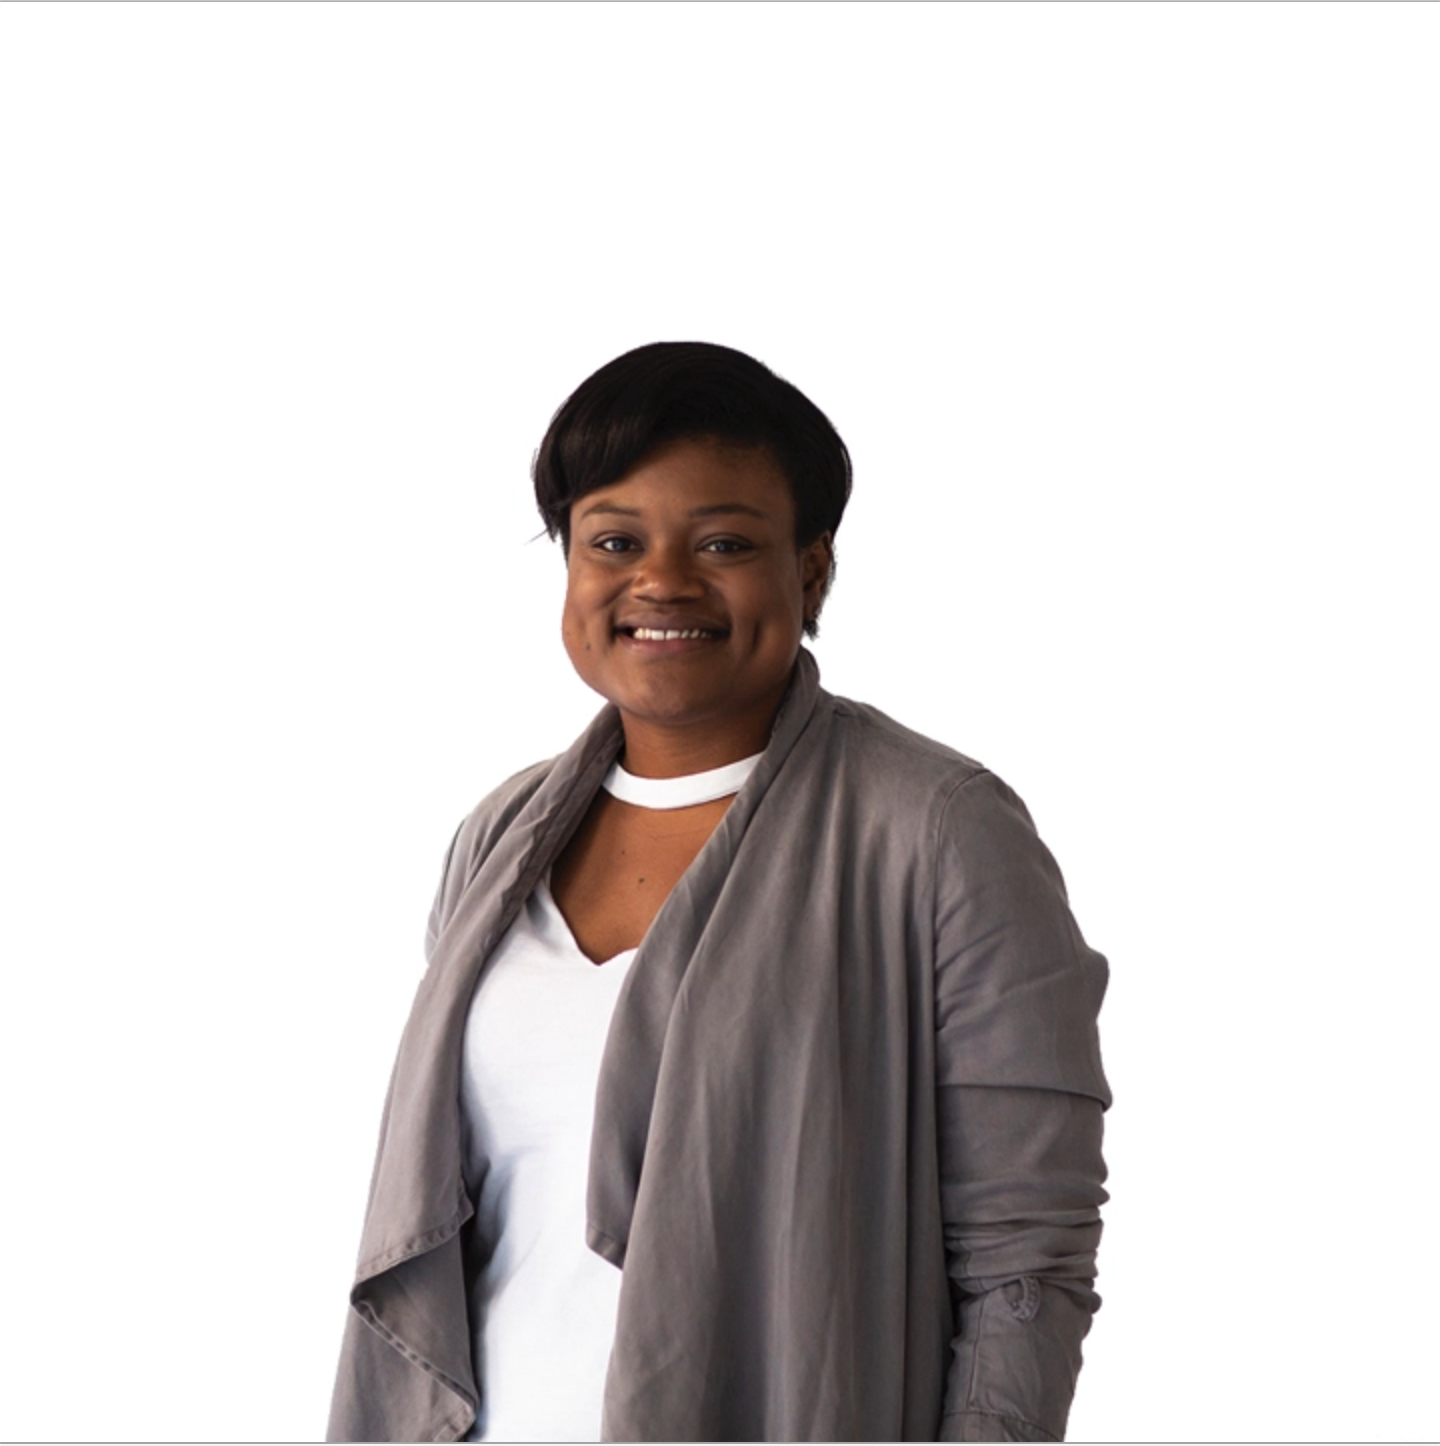
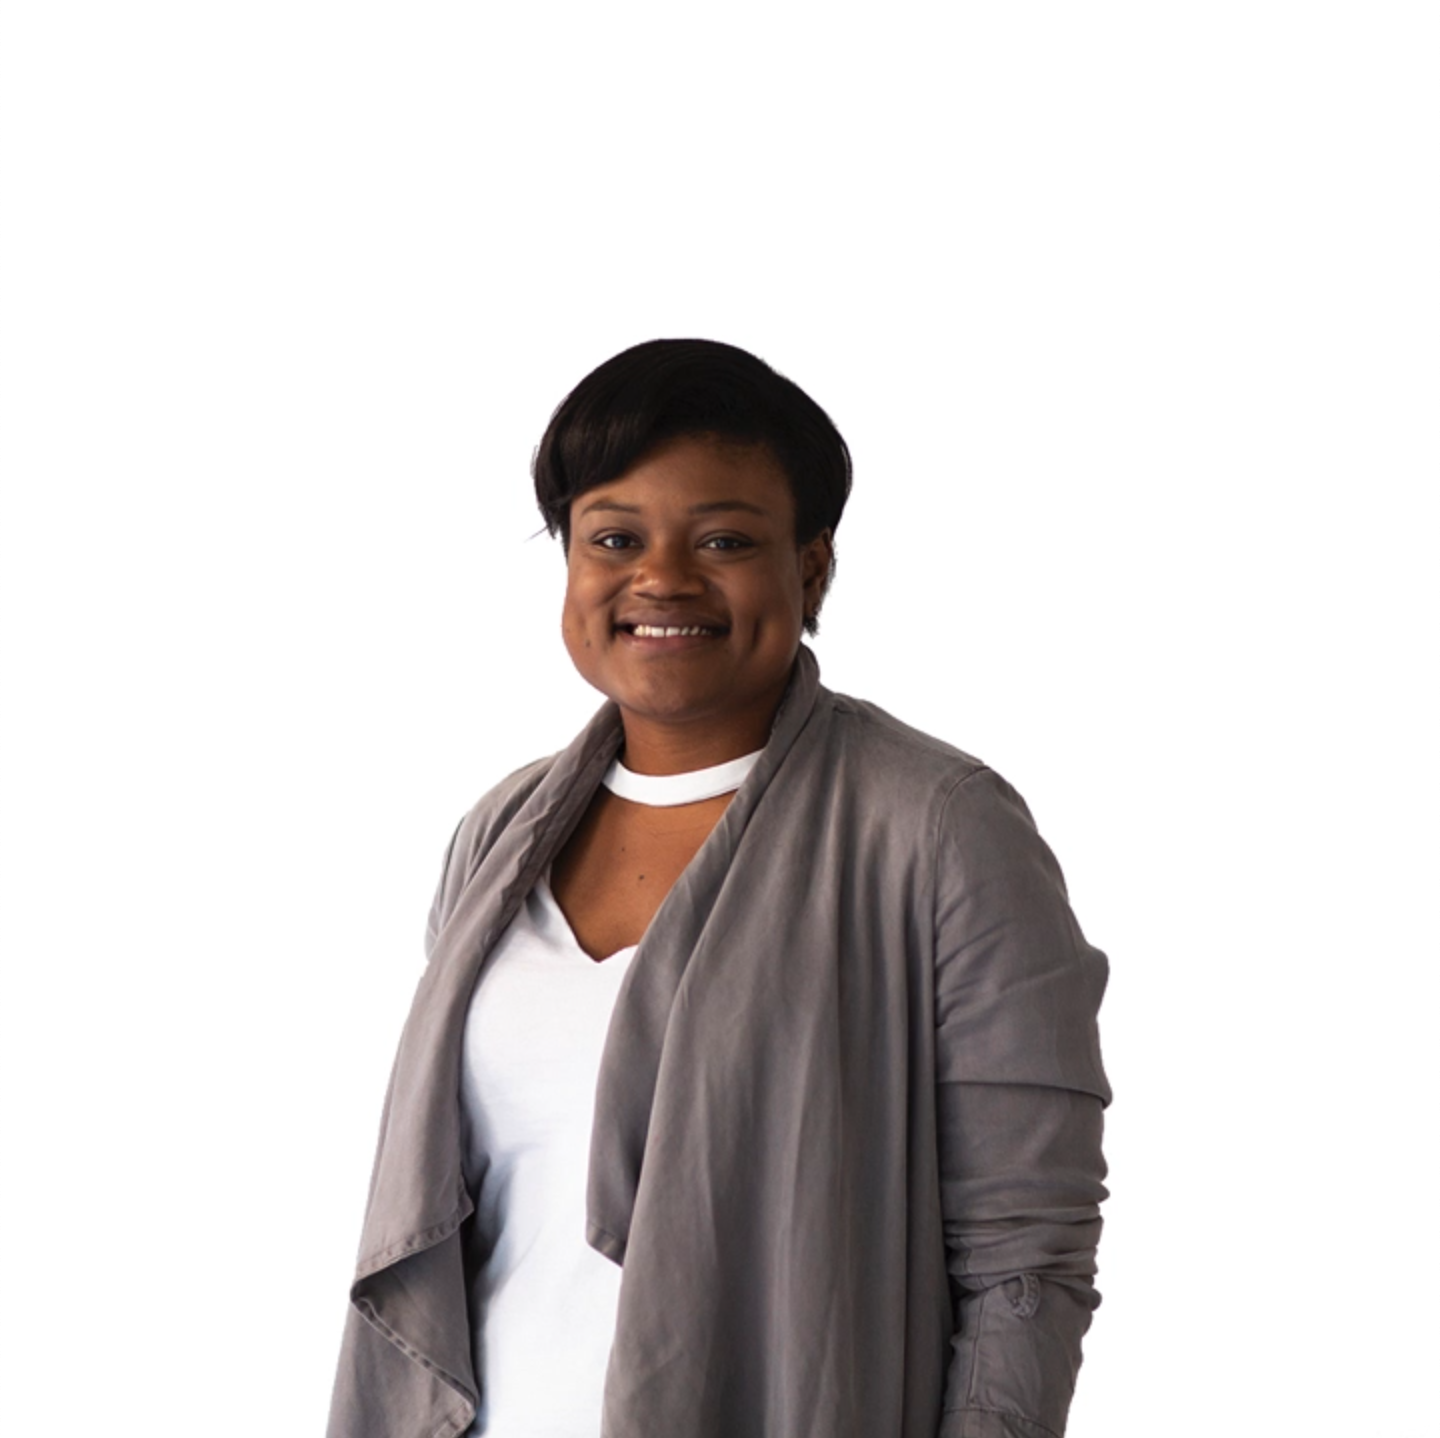
added Malcolm's episode with details; changed SC play button; fixed Stephanie's picture border; added Hervey Lamothe to schedule

diff --git a/js/app.js b/js/app.js
@@ -158,7 +158,7 @@ const isLinkAvailable = (link, embed) => {
     if (link) {
         return `<a target='_blank' href="${link}"><em>LISTEN ON SOUNDCLOUD</em></a>
         <div style='margin: 10px 0px 5px 0px; overflow: auto; padding:5px 0px 20px 0px;'>
-        <iframe width="auto" height="20" scrolling="no" frameborder="no" allow="autoplay" src="https://w.soundcloud.com/player/?url=https%3A//api.soundcloud.com/tracks/${embed}&color=%22ff5500&inverse=false&auto_play=false&show_user=false"></iframe>
+        <iframe width="auto" height="20" scrolling="no" frameborder="no" allow="autoplay" src="https://w.soundcloud.com/player/?url=https%3A//api.soundcloud.com/tracks/${embed}&color=%23ffa000&inverse=false&auto_play=false&show_user=false"></iframe>
         </div>
 
         `
@@ -174,11 +174,17 @@ let state = {
     //stephanie-durandisse/
     page: 0,
     schedule: [{
-        guest: 'Malcolm Barbee',
-        record: '02/03/2019',
-        date: '02/05/2019',
+        guest: 'Hervey Lamothe',
+        record: '02/09/2019',
+        date: '02/13/2019',
         note: undefined,
         released: false,
+    }, {
+        guest: 'Malcolm Barbee',
+        record: '02/03/2019',
+        date: '02/12/2019',
+        note: undefined,
+        released: true,
     }, {
         guest: 'Stephanie Durandisse',
         record: '02/03/2019',
@@ -294,6 +300,16 @@ let state = {
             guest_link: 'https://github.com/sdurandisse3',
             link: 'https://soundcloud.com/codebreak-fivetwo/06-stephanie/s-CEtN2',
             embed: '572513847%3Fsecret_token%3Ds-CEtN2',
+        }, {
+            season: 0,
+            name: 'Episode 7',
+            host: ['Daniel', 'Victoria'],
+            guest: 'Malcolm Barbee',
+            description: 'An energetic skate/code mentor from NYC, Malcolm is an amalgamation of east coast meets west coast.',
+            image: 'assets/images/malcolm_barbee.png',
+            guest_link: 'https://github.com/MalcolmBarbee',
+            link: 'https://soundcloud.com/codebreak-fivetwo/codebreak-07-malcolm/s-xucwI',
+            embed: '574387485%3Fsecret_token%3Ds-xucwI',
         },
     ],
 
